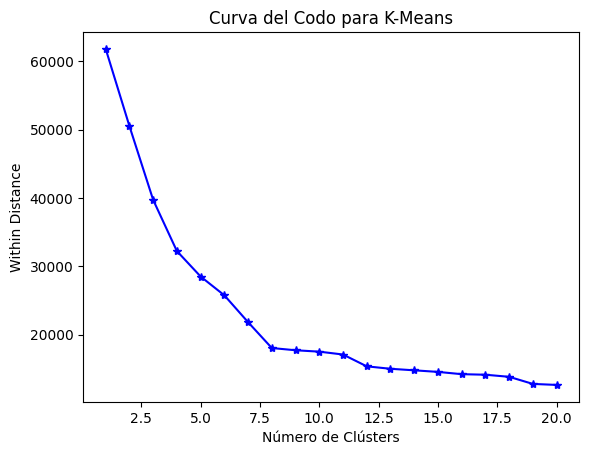
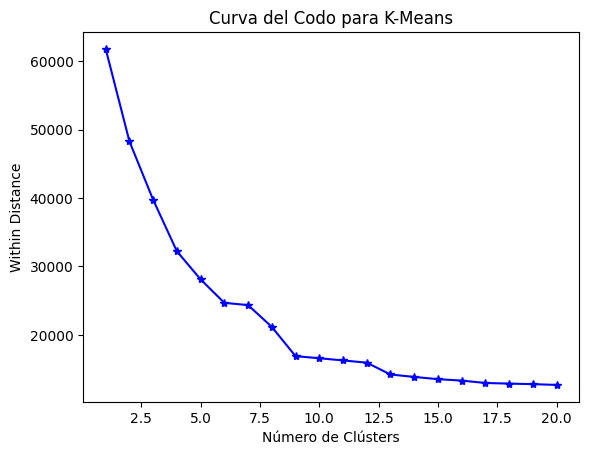
Built site for gh-pages

Changed region(s): [[0.3056, 0.5538, 0.9168, 0.8615], [0.1834, 0.1231, 0.275, 0.4308], [0.0611, 0.7077, 0.1222, 0.7692]]

diff --git a/tics411/notebooks/proyecto_clustering.html b/tics411/notebooks/proyecto_clustering.html
@@ -412,8 +412,8 @@ pre > code.sourceCode > span > a:first-child::before { text-decoration: underlin
 <td>-7.422772</td>
 <td>3.293839</td>
 <td>0.558469</td>
-<td>0.0</td>
 <td>1.0</td>
+<td>0.0</td>
 <td>0.0</td>
 </tr>
 <tr class="odd">
@@ -428,8 +428,8 @@ pre > code.sourceCode > span > a:first-child::before { text-decoration: underlin
 <td>-10.066078</td>
 <td>0.224961</td>
 <td>0.0</td>
-<td>0.0</td>
 <td>1.0</td>
+<td>0.0</td>
 </tr>
 <tr class="even">
 <td data-quarto-table-cell-role="th">6421</td>
@@ -442,9 +442,9 @@ pre > code.sourceCode > span > a:first-child::before { text-decoration: underlin
 <td>2.248149</td>
 <td>6.840680</td>
 <td>0.748647</td>
+<td>0.0</td>
+<td>0.0</td>
 <td>1.0</td>
-<td>0.0</td>
-<td>0.0</td>
 </tr>
 <tr class="odd">
 <td data-quarto-table-cell-role="th">6422</td>
@@ -457,9 +457,9 @@ pre > code.sourceCode > span > a:first-child::before { text-decoration: underlin
 <td>0.343194</td>
 <td>-5.460592</td>
 <td>0.121518</td>
+<td>0.0</td>
+<td>0.0</td>
 <td>1.0</td>
-<td>0.0</td>
-<td>0.0</td>
 </tr>
 </tbody>
 </table>
@@ -549,7 +549,7 @@ pre > code.sourceCode > span > a:first-child::before { text-decoration: underlin
 <span id="cb14-2"><a href="#cb14-2" aria-hidden="true" tabindex="-1"></a>metricas[<span class="st">"km_10"</span>] <span class="op">=</span> s_km</span>
 <span id="cb14-3"><a href="#cb14-3" aria-hidden="true" tabindex="-1"></a>metricas</span></code><button title="Copy to Clipboard" class="code-copy-button"><i class="bi"></i></button></pre></div>
 <div class="cell-output cell-output-display" data-execution_count="13">
-<pre><code>{'km_10': 0.39386606044364375}</code></pre>
+<pre><code>{'km_10': 0.3939694545420378}</code></pre>
 </div>
 </div>
 </section>
@@ -602,7 +602,7 @@ pre > code.sourceCode > span > a:first-child::before { text-decoration: underlin
 </div>
 </div>
 </div>
-<div id="cell-18" class="cell" data-execution_count="23">
+<div id="cell-18" class="cell" data-execution_count="14">
 <div class="sourceCode cell-code" id="cb17"><pre class="sourceCode python code-with-copy"><code class="sourceCode python"><span id="cb17-1"><a href="#cb17-1" aria-hidden="true" tabindex="-1"></a><span class="kw">def</span> train_hierarchical(K_H, linkage):</span>
 <span id="cb17-2"><a href="#cb17-2" aria-hidden="true" tabindex="-1"></a>    hc <span class="op">=</span> AgglomerativeClustering(n_clusters<span class="op">=</span>K_H, linkage<span class="op">=</span>linkage)</span>
 <span id="cb17-3"><a href="#cb17-3" aria-hidden="true" tabindex="-1"></a>    labels_h <span class="op">=</span> hc.fit_predict(X)</span>
@@ -615,28 +615,27 @@ pre > code.sourceCode > span > a:first-child::before { text-decoration: underlin
 <span id="cb17-10"><a href="#cb17-10" aria-hidden="true" tabindex="-1"></a>labels_a9, s_a9 <span class="op">=</span> train_hierarchical(K_H<span class="op">=</span><span class="dv">9</span>, linkage<span class="op">=</span><span class="st">"average"</span>)</span>
 <span id="cb17-11"><a href="#cb17-11" aria-hidden="true" tabindex="-1"></a>labels_w4, s_w4 <span class="op">=</span> train_hierarchical(K_H<span class="op">=</span><span class="dv">4</span>, linkage<span class="op">=</span><span class="st">"ward"</span>)</span></code><button title="Copy to Clipboard" class="code-copy-button"><i class="bi"></i></button></pre></div>
 <div class="cell-output cell-output-stdout">
-<pre><code>El coeficiente de Silueta es 0.3777756279726289
-El coeficiente de Silueta es 0.38067328124008876
-El coeficiente de Silueta es 0.28536531287248157</code></pre>
+<pre><code>El coeficiente de Silueta es 0.375669914954985
+El coeficiente de Silueta es 0.38019115808227
+El coeficiente de Silueta es 0.28526636224404267</code></pre>
 </div>
 </div>
-<div id="cell-19" class="cell" data-execution_count="24">
+<div id="cell-19" class="cell" data-execution_count="15">
 <div class="sourceCode cell-code" id="cb19"><pre class="sourceCode python code-with-copy"><code class="sourceCode python"><span id="cb19-1"><a href="#cb19-1" aria-hidden="true" tabindex="-1"></a>metricas[<span class="st">"s_c9"</span>] <span class="op">=</span> s_c9</span>
 <span id="cb19-2"><a href="#cb19-2" aria-hidden="true" tabindex="-1"></a>metricas[<span class="st">"s_a9"</span>] <span class="op">=</span> s_a9</span>
 <span id="cb19-3"><a href="#cb19-3" aria-hidden="true" tabindex="-1"></a>metricas[<span class="st">"s_w4"</span>] <span class="op">=</span> s_w4</span>
 <span id="cb19-4"><a href="#cb19-4" aria-hidden="true" tabindex="-1"></a>metricas</span></code><button title="Copy to Clipboard" class="code-copy-button"><i class="bi"></i></button></pre></div>
-<div class="cell-output cell-output-display" data-execution_count="24">
-<pre><code>{'km_10': 0.39386606044364375,
- 's_c9': 0.3777756279726289,
- 's_a9': 0.38067328124008876,
- 's_w4': 0.28536531287248157,
- 's_dbs': 0.18142971155604654}</code></pre>
+<div class="cell-output cell-output-display" data-execution_count="15">
+<pre><code>{'km_10': 0.3939694545420378,
+ 's_c9': 0.375669914954985,
+ 's_a9': 0.38019115808227,
+ 's_w4': 0.28526636224404267}</code></pre>
 </div>
 </div>
 </section>
 <section id="dbscan" class="level2">
 <h2 class="anchored" data-anchor-id="dbscan">DBSCAN</h2>
-<div id="cell-21" class="cell" data-execution_count="25">
+<div id="cell-21" class="cell" data-execution_count="16">
 <div class="sourceCode cell-code" id="cb21"><pre class="sourceCode python code-with-copy"><code class="sourceCode python"><span id="cb21-1"><a href="#cb21-1" aria-hidden="true" tabindex="-1"></a><span class="im">from</span> sklearn.neighbors <span class="im">import</span> NearestNeighbors</span>
 <span id="cb21-2"><a href="#cb21-2" aria-hidden="true" tabindex="-1"></a></span>
 <span id="cb21-3"><a href="#cb21-3" aria-hidden="true" tabindex="-1"></a>MIN_SAMPLES <span class="op">=</span> X.shape[<span class="dv">1</span>] <span class="op">+</span> <span class="dv">1</span></span>
@@ -668,21 +667,21 @@ El coeficiente de Silueta es 0.28536531287248157</code></pre>
 </div>
 </div>
 </div>
-<div id="cell-22" class="cell" data-execution_count="26">
+<div id="cell-22" class="cell" data-execution_count="17">
 <div class="sourceCode cell-code" id="cb22"><pre class="sourceCode python code-with-copy"><code class="sourceCode python"><span id="cb22-1"><a href="#cb22-1" aria-hidden="true" tabindex="-1"></a>dbs <span class="op">=</span> DBSCAN(eps<span class="op">=</span>EPS, min_samples<span class="op">=</span>MIN_SAMPLES)</span>
 <span id="cb22-2"><a href="#cb22-2" aria-hidden="true" tabindex="-1"></a>labels_dbs <span class="op">=</span> dbs.fit_predict(X)</span>
 <span id="cb22-3"><a href="#cb22-3" aria-hidden="true" tabindex="-1"></a>s_dbs <span class="op">=</span> silhouette_score(X, labels_dbs)</span>
 <span id="cb22-4"><a href="#cb22-4" aria-hidden="true" tabindex="-1"></a>metricas[<span class="st">"s_dbs"</span>] <span class="op">=</span> s_dbs</span>
 <span id="cb22-5"><a href="#cb22-5" aria-hidden="true" tabindex="-1"></a>metricas</span></code><button title="Copy to Clipboard" class="code-copy-button"><i class="bi"></i></button></pre></div>
-<div class="cell-output cell-output-display" data-execution_count="26">
-<pre><code>{'km_10': 0.39386606044364375,
- 's_c9': 0.3777756279726289,
- 's_a9': 0.38067328124008876,
- 's_w4': 0.28536531287248157,
- 's_dbs': 0.18142971155604654}</code></pre>
+<div class="cell-output cell-output-display" data-execution_count="17">
+<pre><code>{'km_10': 0.3939694545420378,
+ 's_c9': 0.375669914954985,
+ 's_a9': 0.38019115808227,
+ 's_w4': 0.28526636224404267,
+ 's_dbs': 0.19017039002350858}</code></pre>
 </div>
 </div>
-<div id="cell-23" class="cell" data-execution_count="27">
+<div id="cell-23" class="cell" data-execution_count="18">
 <div class="sourceCode cell-code" id="cb24"><pre class="sourceCode python code-with-copy"><code class="sourceCode python"><span id="cb24-1"><a href="#cb24-1" aria-hidden="true" tabindex="-1"></a>pd.Series(metricas.values(), index<span class="op">=</span>metricas.keys()).plot(</span>
 <span id="cb24-2"><a href="#cb24-2" aria-hidden="true" tabindex="-1"></a>    kind<span class="op">=</span><span class="st">"bar"</span>,</span>
 <span id="cb24-3"><a href="#cb24-3" aria-hidden="true" tabindex="-1"></a>    rot<span class="op">=</span><span class="dv">0</span>,</span>
@@ -698,13 +697,13 @@ El coeficiente de Silueta es 0.28536531287248157</code></pre>
 </div>
 </div>
 </div>
-<div id="cell-24" class="cell" data-execution_count="28">
+<div id="cell-24" class="cell" data-execution_count="19">
 <div class="sourceCode cell-code" id="cb25"><pre class="sourceCode python code-with-copy"><code class="sourceCode python"><span id="cb25-1"><a href="#cb25-1" aria-hidden="true" tabindex="-1"></a>labels_km</span></code><button title="Copy to Clipboard" class="code-copy-button"><i class="bi"></i></button></pre></div>
-<div class="cell-output cell-output-display" data-execution_count="28">
-<pre><code>array([2, 0, 4, ..., 4, 8, 1], dtype=int32)</code></pre>
+<div class="cell-output cell-output-display" data-execution_count="19">
+<pre><code>array([5, 7, 4, ..., 4, 8, 2], dtype=int32)</code></pre>
 </div>
 </div>
-<div id="cell-25" class="cell" data-execution_count="29">
+<div id="cell-25" class="cell" data-execution_count="20">
 <div class="sourceCode cell-code" id="cb27"><pre class="sourceCode python code-with-copy"><code class="sourceCode python"><span id="cb27-1"><a href="#cb27-1" aria-hidden="true" tabindex="-1"></a><span class="im">import</span> matplotlib.pyplot <span class="im">as</span> plt</span>
 <span id="cb27-2"><a href="#cb27-2" aria-hidden="true" tabindex="-1"></a><span class="im">import</span> matplotlib.colors <span class="im">as</span> mcolors</span>
 <span id="cb27-3"><a href="#cb27-3" aria-hidden="true" tabindex="-1"></a></span>
@@ -760,13 +759,26 @@ El coeficiente de Silueta es 0.28536531287248157</code></pre>
 </div>
 </div>
 </div>
-<div id="cell-26" class="cell" data-execution_count="30">
+<div id="cell-26" class="cell" data-execution_count="21">
 <div class="sourceCode cell-code" id="cb28"><pre class="sourceCode python code-with-copy"><code class="sourceCode python"><span id="cb28-1"><a href="#cb28-1" aria-hidden="true" tabindex="-1"></a>plt.scatter(pca_X[<span class="st">"pca0"</span>], pca_X[<span class="st">"pca1"</span>], c<span class="op">=</span>labels_c9)</span>
 <span id="cb28-2"><a href="#cb28-2" aria-hidden="true" tabindex="-1"></a>plt.tight_layout()</span></code><button title="Copy to Clipboard" class="code-copy-button"><i class="bi"></i></button></pre></div>
 <div class="cell-output cell-output-display">
 <div>
 <figure class="figure">
 <p><img src="proyecto_clustering_files/figure-html/cell-23-output-1.png" class="img-fluid figure-img"></p>
+</figure>
+</div>
+</div>
+</div>
+<div id="cell-27" class="cell" data-execution_count="24">
+<div class="sourceCode cell-code" id="cb29"><pre class="sourceCode python code-with-copy"><code class="sourceCode python"><span id="cb29-1"><a href="#cb29-1" aria-hidden="true" tabindex="-1"></a><span class="im">import</span> scikitplot <span class="im">as</span> skplt</span>
+<span id="cb29-2"><a href="#cb29-2" aria-hidden="true" tabindex="-1"></a></span>
+<span id="cb29-3"><a href="#cb29-3" aria-hidden="true" tabindex="-1"></a>skplt.metrics.plot_silhouette(X, labels_km)</span>
+<span id="cb29-4"><a href="#cb29-4" aria-hidden="true" tabindex="-1"></a>plt.show()</span></code><button title="Copy to Clipboard" class="code-copy-button"><i class="bi"></i></button></pre></div>
+<div class="cell-output cell-output-display">
+<div>
+<figure class="figure">
+<p><img src="proyecto_clustering_files/figure-html/cell-24-output-1.png" class="img-fluid figure-img"></p>
 </figure>
 </div>
 </div>

diff --git a/tics411/clase-6.html b/tics411/clase-6.html
@@ -465,8 +465,8 @@ Alfonso Tobar-Arancibia
 <div class="column">
 <p><span class="math display">\[H = \frac{\sum_{i = 1}^p w_i}{\sum_{i = 1}^p u_i + \sum_{i = 1}^p w_i}\]</span></p>
 <ul>
-<li><span class="math inline">\(w_i\)</span>: corresponde a la distancia de un punto aleatorio al vecino más cercano en los datos originales.</li>
-<li><span class="math inline">\(u_i\)</span>: corresponde a la distancia de un punto del dataset al vecino más cercano.</li>
+<li><span class="math inline">\(w_i\)</span>: corresponde a la distancia de un punto <em>aleatorio</em> al vecino más cercano en los datos originales.</li>
+<li><span class="math inline">\(u_i\)</span>: corresponde a la distancia de un punto <em>real</em> del dataset al vecino más cercano.</li>
 <li><span class="math inline">\(p\)</span>: Número de puntos generados en el espacio del Dataset.</li>
 </ul>
 </div><div class="column">
@@ -682,7 +682,7 @@ Alfonso Tobar-Arancibia
 </div><div class="column">
 <p><span class="math display">\[C_{silueta} = \sum_{i} s_i\]</span></p>
 <ul>
-<li><span class="math inline">\(a_i\)</span>: Distancia promedio del punto <span class="math inline">\(i\)</span> a todos los puntos del mismo cluster. (Cohesión)</li>
+<li><span class="math inline">\(a_i\)</span>: Distancia promedio del punto <span class="math inline">\(i\)</span> a todos los <code>otros</code> puntos del mismo cluster. (Cohesión)</li>
 <li><span class="math inline">\(b_{ij}\)</span>: Distancia promedio del punto <span class="math inline">\(i\)</span> a todos los puntos del cluster <span class="math inline">\(j\)</span> donde no pertenezca <span class="math inline">\(i\)</span>. (Separación)</li>
 <li><span class="math inline">\(b_j\)</span>: Mínimo de <span class="math inline">\(b_{ij}\)</span> tal que el punto i no pertenezca al cluster <span class="math inline">\(j\)</span>. (Menor Separación)</li>
 </ul>
@@ -1174,7 +1174,7 @@ Alfonso Tobar-Arancibia
       }
     });
     </script>
-    <script>var lightboxQuarto = GLightbox({"selector":".lightbox","openEffect":"zoom","descPosition":"bottom","loop":false,"closeEffect":"zoom"});
+    <script>var lightboxQuarto = GLightbox({"closeEffect":"zoom","loop":false,"descPosition":"bottom","openEffect":"zoom","selector":".lightbox"});
     window.onload = () => {
       lightboxQuarto.on('slide_before_load', (data) => {
         const { slideIndex, slideNode, slideConfig, player, trigger } = data;

diff --git a/tics411.html b/tics411.html
@@ -400,7 +400,7 @@ Apr 11, 2024
 </div>
 </a>
 </div>
-<div class="g-col-1" data-index="7" data-categories="slides" data-listing-date-sort="1713412800000" data-listing-file-modified-sort="1713464064645" data-listing-reading-time-sort="5" data-listing-word-count-sort="848">
+<div class="g-col-1" data-index="7" data-categories="slides" data-listing-date-sort="1713412800000" data-listing-file-modified-sort="1713464472773" data-listing-reading-time-sort="5" data-listing-word-count-sort="850">
 <a href="./tics411/clase-6.html" class="quarto-grid-link">
 <div class="quarto-grid-item card h-100 card-left">
 <p class="card-img-top">

diff --git a/tics411/clase-4.html b/tics411/clase-4.html
@@ -1605,7 +1605,7 @@ Se define como la proporción de variables que tienen distinto valor con respect
       }
     });
     </script>
-    <script>var lightboxQuarto = GLightbox({"selector":".lightbox","openEffect":"zoom","descPosition":"bottom","closeEffect":"zoom","loop":false});
+    <script>var lightboxQuarto = GLightbox({"loop":false,"openEffect":"zoom","closeEffect":"zoom","selector":".lightbox","descPosition":"bottom"});
     window.onload = () => {
       lightboxQuarto.on('slide_before_load', (data) => {
         const { slideIndex, slideNode, slideConfig, player, trigger } = data;

diff --git a/tics411/clase-0.html b/tics411/clase-0.html
@@ -1929,7 +1929,7 @@ Alfonso Tobar-Arancibia
     });
     </script>
     <script>videojs(video_shortcode_videojs_video1);</script>
-    <script>var lightboxQuarto = GLightbox({"openEffect":"zoom","loop":false,"closeEffect":"zoom","selector":".lightbox","descPosition":"bottom"});
+    <script>var lightboxQuarto = GLightbox({"openEffect":"zoom","closeEffect":"zoom","loop":false,"selector":".lightbox","descPosition":"bottom"});
     window.onload = () => {
       lightboxQuarto.on('slide_before_load', (data) => {
         const { slideIndex, slideNode, slideConfig, player, trigger } = data;

diff --git a/tics411/clase-2.html b/tics411/clase-2.html
@@ -1223,7 +1223,7 @@ Es un tipo de gráfico que muestra la distribución de manera univariada.
       }
     });
     </script>
-    <script>var lightboxQuarto = GLightbox({"descPosition":"bottom","selector":".lightbox","openEffect":"zoom","loop":false,"closeEffect":"zoom"});
+    <script>var lightboxQuarto = GLightbox({"closeEffect":"zoom","loop":false,"selector":".lightbox","openEffect":"zoom","descPosition":"bottom"});
     window.onload = () => {
       lightboxQuarto.on('slide_before_load', (data) => {
         const { slideIndex, slideNode, slideConfig, player, trigger } = data;

diff --git a/tics411/clase-1.html b/tics411/clase-1.html
@@ -2029,7 +2029,7 @@ cov(q,p) &amp; cov(q,q)
       }
     });
     </script>
-    <script>var lightboxQuarto = GLightbox({"descPosition":"bottom","closeEffect":"zoom","loop":false,"selector":".lightbox","openEffect":"zoom"});
+    <script>var lightboxQuarto = GLightbox({"loop":false,"descPosition":"bottom","closeEffect":"zoom","selector":".lightbox","openEffect":"zoom"});
     window.onload = () => {
       lightboxQuarto.on('slide_before_load', (data) => {
         const { slideIndex, slideNode, slideConfig, player, trigger } = data;

diff --git a/tics411/clase-5.html b/tics411/clase-5.html
@@ -1317,7 +1317,7 @@ Alfonso Tobar-Arancibia
       }
     });
     </script>
-    <script>var lightboxQuarto = GLightbox({"openEffect":"zoom","selector":".lightbox","closeEffect":"zoom","loop":false,"descPosition":"bottom"});
+    <script>var lightboxQuarto = GLightbox({"descPosition":"bottom","closeEffect":"zoom","openEffect":"zoom","selector":".lightbox","loop":false});
     window.onload = () => {
       lightboxQuarto.on('slide_before_load', (data) => {
         const { slideIndex, slideNode, slideConfig, player, trigger } = data;

diff --git a/tics411/lab-0.html b/tics411/lab-0.html
@@ -1193,7 +1193,7 @@ Alfonso Tobar-Arancibia
       }
     });
     </script>
-    <script>var lightboxQuarto = GLightbox({"openEffect":"zoom","closeEffect":"zoom","loop":false,"selector":".lightbox","descPosition":"bottom"});
+    <script>var lightboxQuarto = GLightbox({"closeEffect":"zoom","selector":".lightbox","loop":false,"openEffect":"zoom","descPosition":"bottom"});
     window.onload = () => {
       lightboxQuarto.on('slide_before_load', (data) => {
         const { slideIndex, slideNode, slideConfig, player, trigger } = data;
